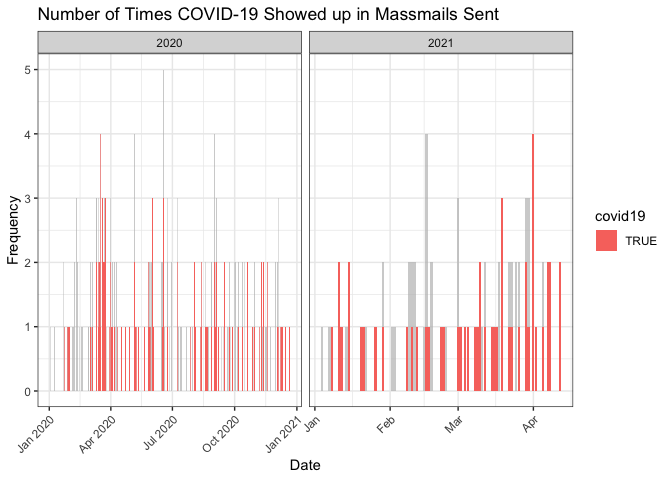
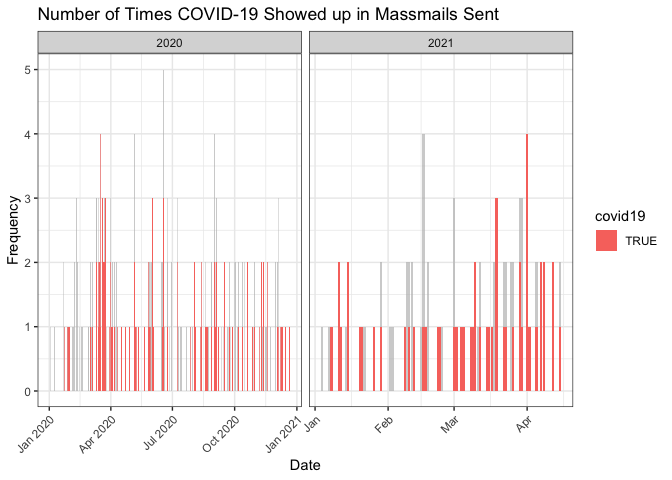
Re-build README.Rmd and Graphs

diff --git a/README.md b/README.md
@@ -17,7 +17,7 @@ The archive may be viewed here:
 
 <https://massmail.illinois.edu/massmailArchive>
 
-Data has **1339** observations and **7** variables:
+Data has **1341** observations and **7** variables:
 
   - `datetime`: Date and time when the email was sent in the form of
     `YYYY-MM-DD HMS` with either CDT or CST.
@@ -210,16 +210,16 @@ head(most_popular_words, 10) %>%
 
 | word        | freq |
 | :---------- | ---: |
-| students    |  939 |
-| university  |  893 |
-| campus      |  835 |
-| illinois    |  577 |
-| covid       |  547 |
-| community   |  490 |
-| faculty     |  490 |
-| health      |  421 |
-| information |  404 |
-| staff       |  395 |
+| students    |  943 |
+| university  |  898 |
+| campus      |  836 |
+| illinois    |  578 |
+| covid       |  552 |
+| faculty     |  499 |
+| community   |  494 |
+| health      |  426 |
+| information |  406 |
+| staff       |  398 |
 
 #### Wordcloud
 
